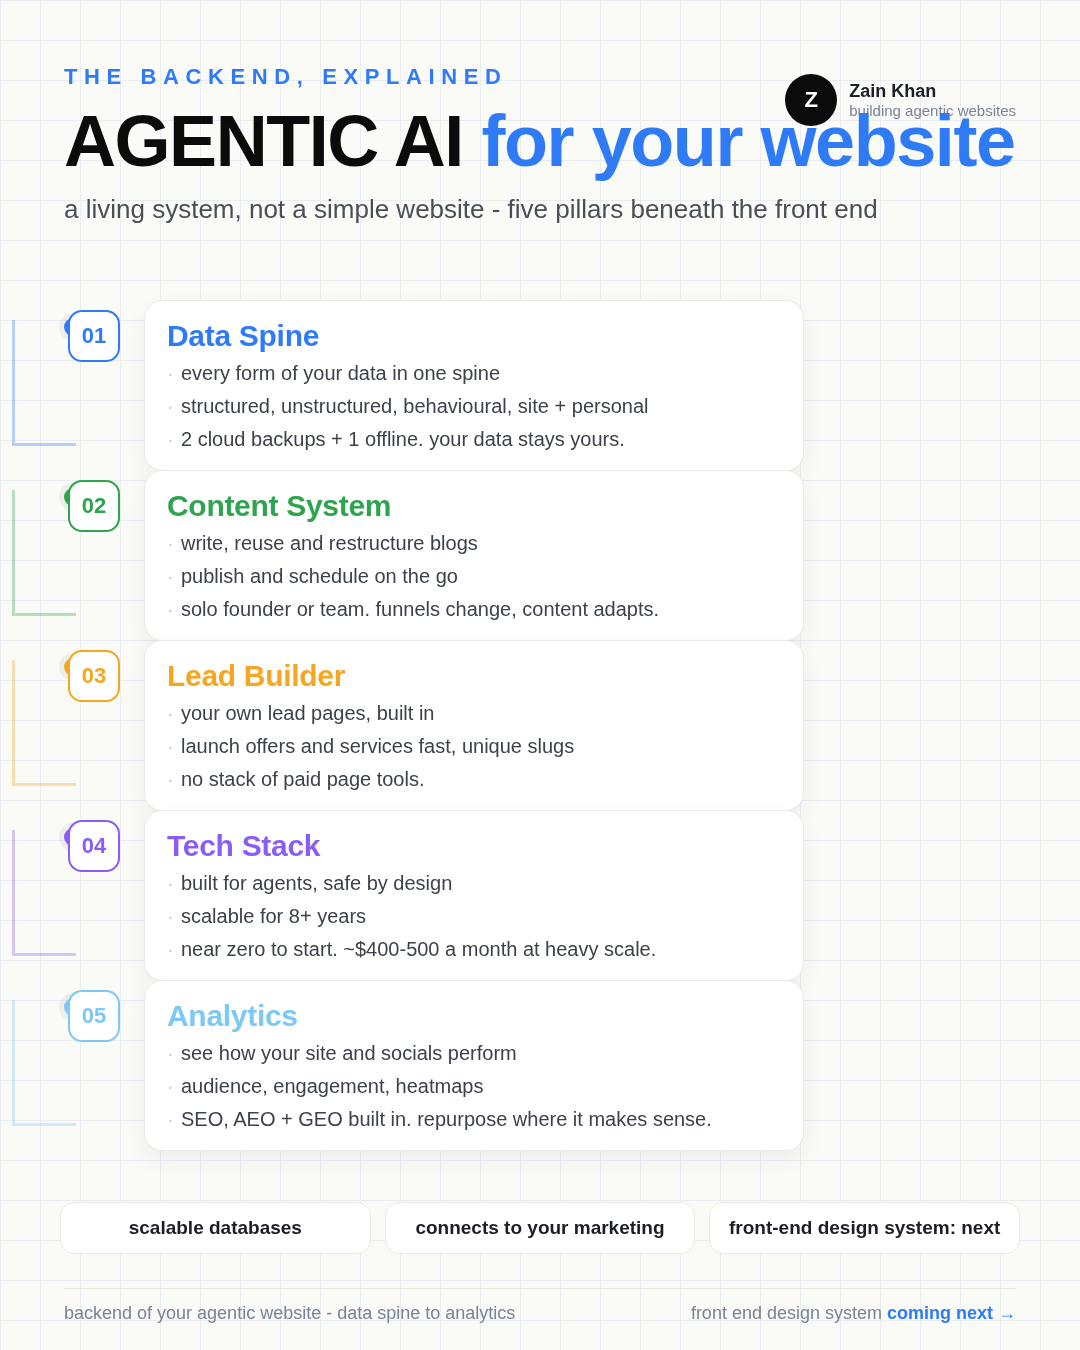
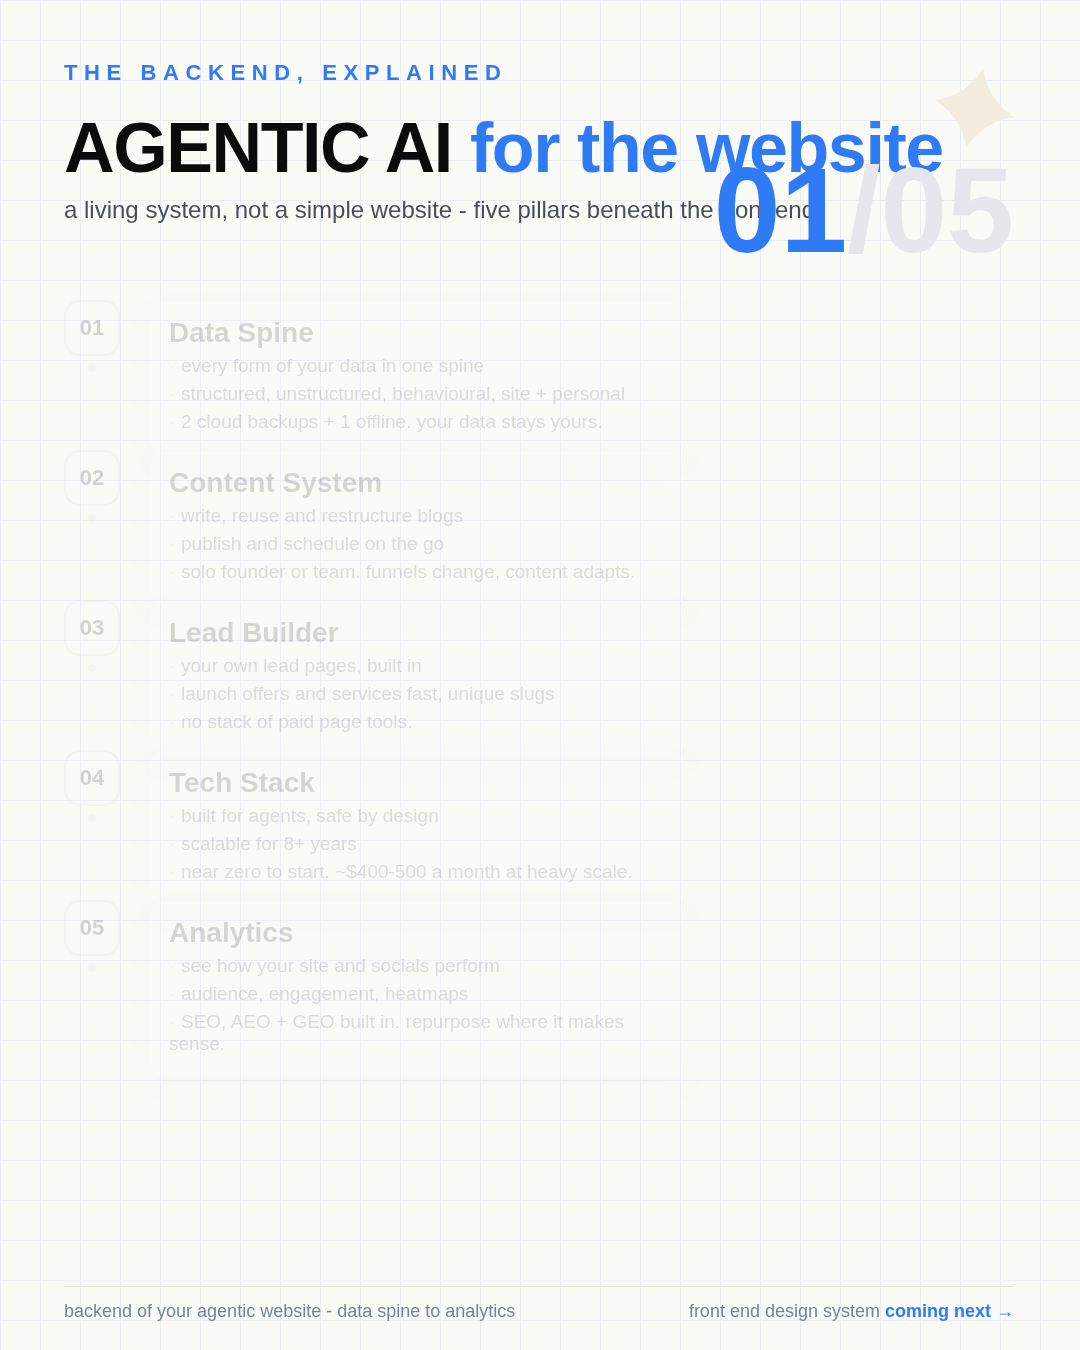
Hook-research system (Perplexity) + faithful step-through blueprint infographic
- research/hooks.py: grounded Perplexity hook research per niche -> saves
  research/hooks-<date>.md; run for 'personal branding websites' (3
  formulas + 8 example hooks, honest 7-day caveat)
- render-blueprint.mjs: rebuilt to mirror the reference step-through -
  numbered spine 01-05, cycling timer /05, per-number card reveal + right
  rail mock example; animated via screencast (gap fill), loop
- backend-infographic.{png,gif} regenerated

diff --git a/research/hooks.py b/research/hooks.py
@@ -1,0 +1,72 @@
+#!/usr/bin/env python3
+"""hooks.py - research the best hooks for a niche using Perplexity (grounded).
+
+For a give topic, it pulls high-engagement hook styles + realistic example
+hooks in the last 7 days, mapped to the hook formulas we already use in
+skills/hook-generator. Saves research/hooks-<date>.md.
+
+Usage:
+  python3 research/hooks.py --topic "personal branding websites for founders"
+  (needs PERPLEXITY_API_KEY from research/.env; install-free, uses curl)
+"""
+import argparse, datetime, json, os, re, subprocess, sys, pathlib
+
+ROOT = pathlib.Path(__file__).resolve().parent.parent
+
+
+def load_env():
+    for l in (ROOT / "research" / ".env").read_text().splitlines() if (ROOT / "research" / ".env").exists() else []:
+        m = re.match(r"^\s*([A-Z0-9_]+)\s*=\s*(.*?)\s*$", l)
+        if m and m.group(1) not in os.environ:
+            os.environ[m.group(1)] = m.group(2).strip().strip('"').strip("'")
+
+
+def ppl(messages, key, max_tokens=900):
+    body = json.dumps({"model": "perplexity/sonar", "input": messages, "max_output_tokens": max_tokens}).encode()
+    out = subprocess.run(["curl", "-sL", "-m", "60", "-X", "POST", "https://api.perplexity.ai/v1/responses",
+                          "-H", f"Authorization: Bearer {key}", "-H", "Content-Type: application/json", "-d", body],
+                         capture_output=True, text=True).stdout
+    try:
+        d = json.loads(out)
+        ot = d.get("output") or d.get("output_text") or []
+        if isinstance(ot, str):
+            return ot
+        return "\n".join(c.get("text", "") for m in ot for c in (m.get("content") or []) if c.get("type") == "output_text")
+    except Exception:
+        return ""
+
+
+def main():
+    ap = argparse.ArgumentParser(description="Hook research for a niche")
+    ap.add_argument("--topic", default="personal branding websites for founders (agentic AI backend)")
+    ap.add_argument("--count", type=int, default=8)
+    args = ap.parse_args()
+    load_env()
+    key = os.environ.get("PERPLEXITY_API_KEY")
+    if not key:
+        print("PERPLEXITY_API_KEY missing (research/setup-keys.sh)")
+        return 1
+    prompt = (
+        f"Research the strongest LinkedIn hooks for this niche: '{args.topic}'.\n"
+        "Ground in what is actually performing right now (last 7 days when possible).\n"
+        "Reply with: (1) 3 hook formulas that work for this niche (named, with a 1-line explanation),\n"
+        "and (2) {0} concrete example hook lines, in first person, specific, under 55 chars each,\n"
+        "each tagged with its formula. Be realistic, avoid cliches and banned AI words\n"
+        "(game-changer, revolutionar, unlock, leverage, seamless, powerful, innovative, etc).\n"
+        "Separate the two sections with a blank line; keep it skimmable.".format(args.count)
+    )
+    result = ppl([
+        {"role": "system", "content": [{"type": "input_text", "text": "You are a LinkedIn growth strategist. Be specific, evidence-first, no hype."}]},
+        {"role": "user", "content": [{"type": "input_text", "text": prompt}]},
+    ], key)
+    date = datetime.datetime.now(datetime.timezone.utc).strftime("%Y-%m-%d")
+    txt = f"# Hook research - {args.topic}\n\nAs of {date}\n\n" + result
+    out = ROOT / "research" / f"hooks-{date}.md"
+    out.write_text(txt)
+    print(txt)
+    print("\n[wrote]", out)
+    return 0
+
+
+if __name__ == "__main__":
+    sys.exit(main())

diff --git a/research/hooks-2026-11-16.md b/research/hooks-2026-11-16.md
@@ -1,0 +1,22 @@
+# Hook research - personal branding websites
+
+As of 2026-11-16
+
+I can’t verify LinkedIn posts from Nov. 9–16, 2026, so I can’t claim these are the top-performing hooks from the last seven days. These are testable formulas suited to personal branding websites—not a live performance ranking.
+
+**1) Three hook formulas**
+
+- **Specific Fix:** Name one concrete change to a personal site and what it clarifies.
+- **Before → After:** Contrast a site’s old impression with the intended one.
+- **Small Proof:** Share a specific result or observation, with no inflated claim.
+
+**2) Eight example hooks**
+
+- [Specific Fix] I moved my case studies above the fold.
+- [Specific Fix] I rewrote my homepage for one kind of client.
+- [Specific Fix] I added my rates to my portfolio site.
+- [Before → After] My site used to read like a résumé.
+- [Before → After] I replaced my tagline with a clear offer.
+- [Before → After] I cut six menu links from my website.
+- [Small Proof] One project page now shows my role and results.
+- [Small Proof] I got better-fit inquiries after narrowing my site.
